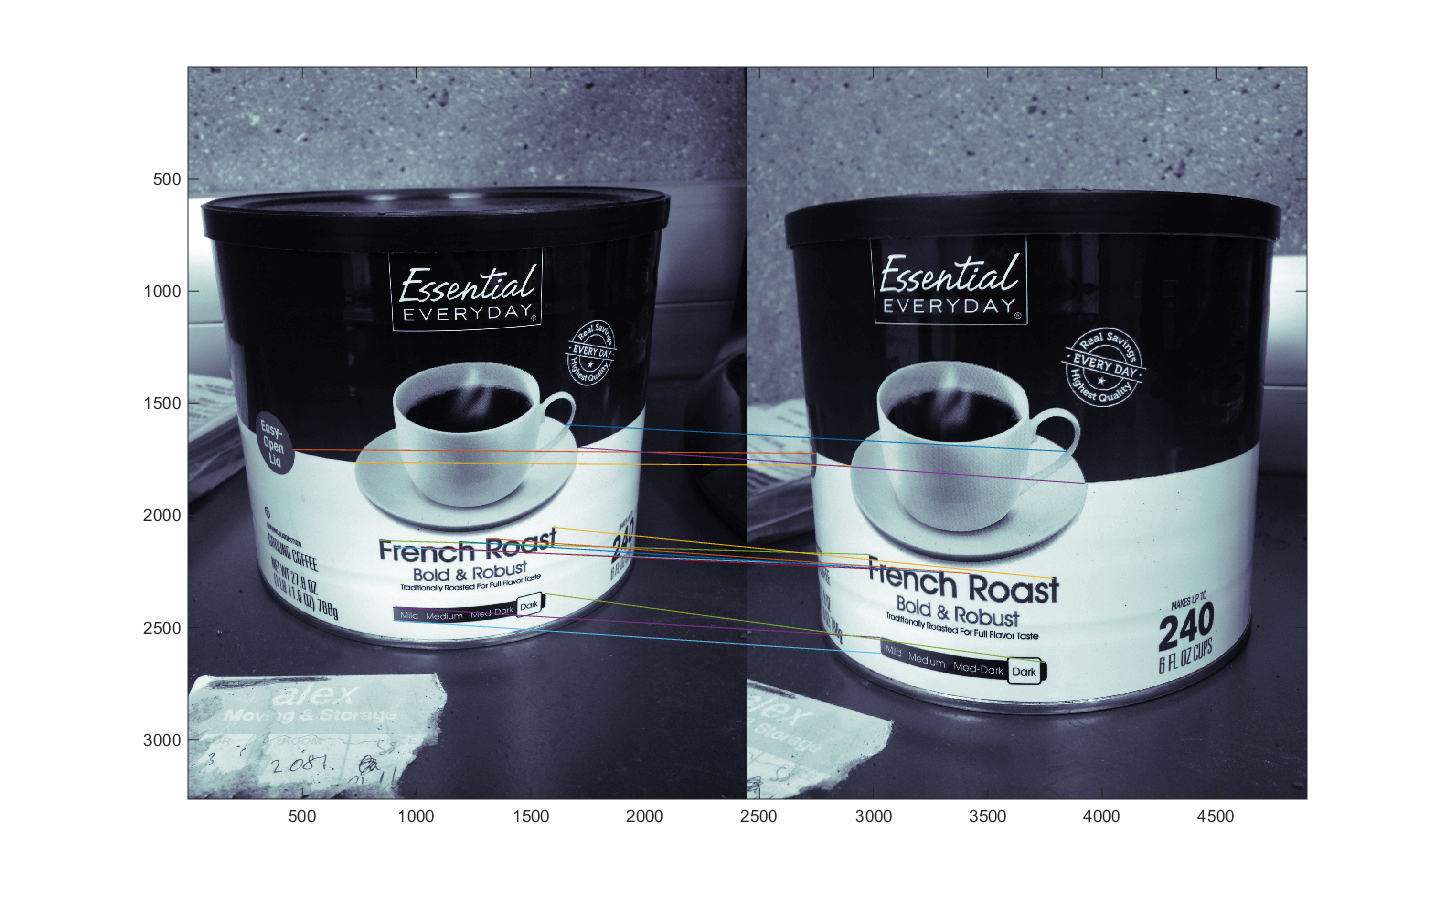
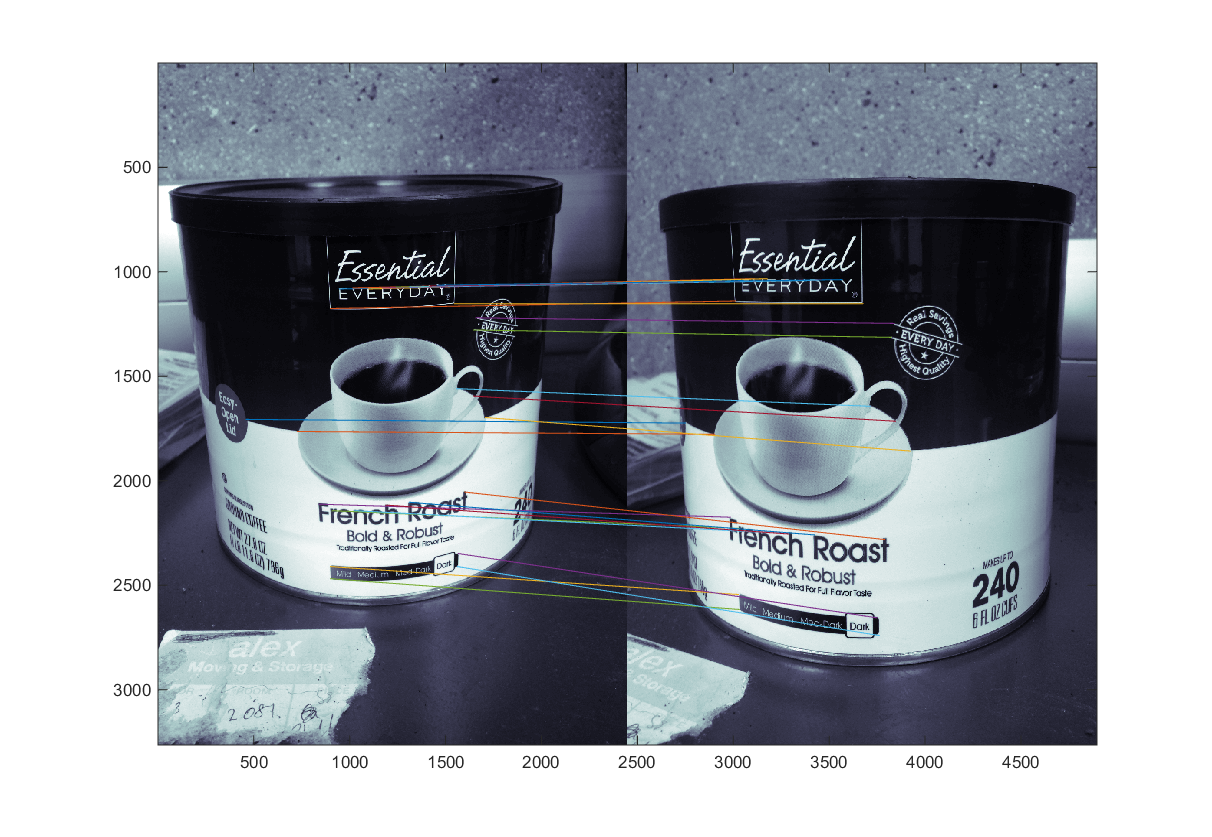
almost done with prob2

diff --git a/Homework2/prob2script.m b/Homework2/prob2script.m
@@ -53,8 +53,8 @@ fMatrix = reshape(ff,[3 3]);
 
 %performs iterations of RANSAC
 %threshold = 0.45; %for squirtle
-%threshold = 0.6; %for book
-threshold = 0.5; %for coffee can
+threshold = 0.6; %for book
+%threshold = 0.55; %for coffee can
 for iter=1:numIter
     
     %figures out the inlier and outlier indices
@@ -81,9 +81,9 @@ end
 
 %%
 
-imageName = 'squirtle';
+%imageName = 'squirtle';
 %imageName = 'coffeeCan';
-%imageName = 'book';
+imageName = 'book';
 image1 = strcat(imageName,'1.JPG');
 image2 = strcat(imageName,'2.JPG');
 I1 = imread(image1);
@@ -122,17 +122,27 @@ x = linspace(0,width,100);
 
 %plots the matches for the visualized points in each image
 hold on
-colors = 'bgrcmbgrcm';
-for i = 1:10
+colors = 'bgrcmbgrcmbgrcmbgrcm';
+for i = 1:20
     index = randInds(i);
+    
+    %gets the point in image 2 and its line in image 1
     abcVector = fMatrix*[X2(index);Y2(index);1];
     A = abcVector(1); B = abcVector(2); C = abcVector(3);
     curY = -(A.*x + C)./B;
+    
+    %gets the point in image 1 and its line in image 2
+    abcVector2 = [X1(index) Y1(index) 1]*fMatrix;
+    A2 = abcVector2(1); B2 = abcVector2(2); C2 = abcVector2(3);
+    curY2 = -(A2.*x + C2)./B2;
+    
+    %plots the lines found above
     plot(x,curY,strcat(colors(i),'-'));
+    plot(x+width,curY2,strcat(colors(i),'-'));
+    
+    %plots the points found above
+    plot(X1(index),Y1(index),strcat(colors(i),'x'));
     plot(X2(index)+width,Y2(index),strcat(colors(i),'x'));
-   %Xvals = [X1(index) X2(index)+width];
-   %Yvals = [Y1(index) Y2(index)];
-   %plot(Xvals,Yvals);
 end
 
 

diff --git a/Homework2/HW2_solution.tex b/Homework2/HW2_solution.tex
@@ -207,6 +207,26 @@ For problem 2, I used the same images as the previous problem but I chose my own
 \label{p2f}
 \end{figure}
 
+\newpage
+
+\subsection*{Part b}
+
+With the squirtle image, the epipole for the left image lies slightly above the epipole for the right image, suggesting that the left image was taken from a slightly raised viewpoint as compared to the right image. With the coffee can image, the epipole of the left image is below the epipole for right image, suggesting that it was taken from a lowered viewpoint. 
+
+\begin{figure}[H]
+\centering
+\includegraphics[height=3.5in]{squirtle_prob2Epipolar.png}
+\caption{Squirtle Image with Epipolar Lines and their points}
+\label{p2g}
+\end{figure}
+
+\begin{figure}[H]
+\centering
+\includegraphics[height=3.5in]{coffeeCan_prob2Epipolar.png}
+\caption{Coffee Can Image with Epipolar Lines and their points}
+\label{p2h}
+\end{figure}
+
 \end{document}
 
 
